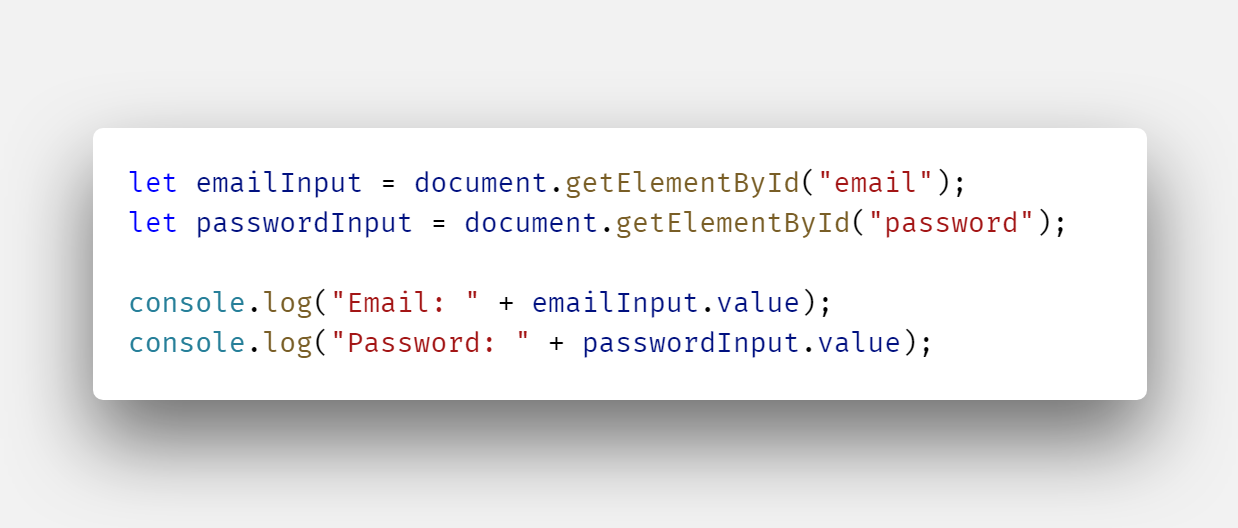
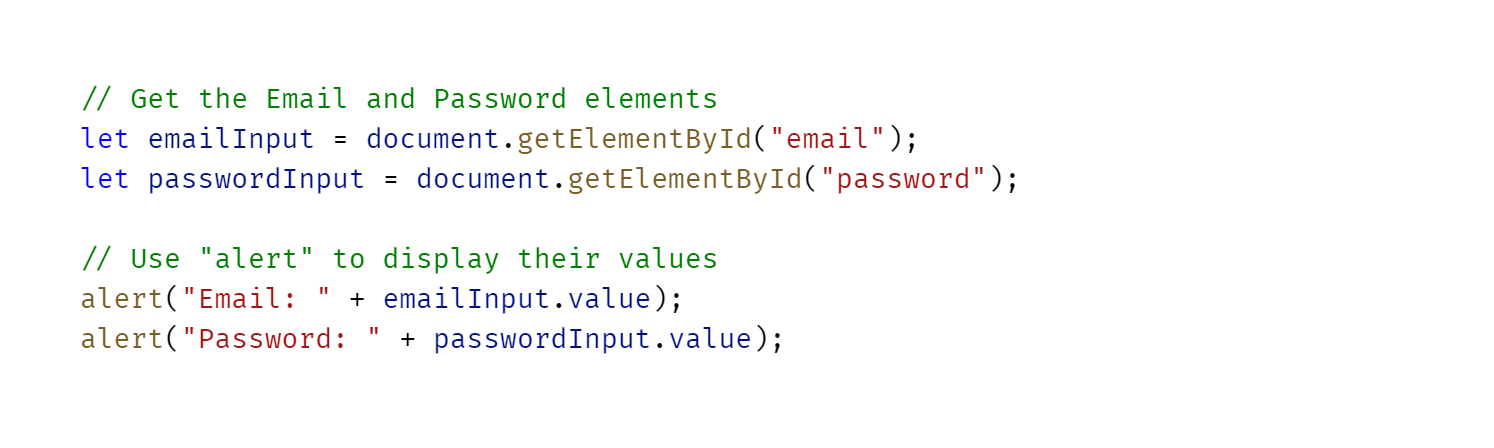
add exercise files for inputs and selectors

Changed region(s): [[0.0307, 0.1875, 0.9822, 0.9375]]

diff --git a/Solutions/3. Inputs/login.js b/Solutions/3. Inputs/login.js
@@ -1,8 +1,19 @@
 function handleClick(){
-    // Code your things in here
+    // Get the Email and Password elements
     let emailInput = document.getElementById("email");
     let passwordInput = document.getElementById("password");
 
+    // Use "alert" to display their values
     alert("Email: " + emailInput.value);
     alert("Password: " + passwordInput.value);
+
+    /* 
+    When you are done, 
+    click the "login" button on the HTML page to run this code
+    */
+   
+    // Validate if the password given is longer than 3 characters
+    if (passwordInput.value.length < 3) {
+        alert("Sorry! That password is too short!")
+    }
 }

diff --git a/Exercises/3. Inputs/login.js b/Exercises/3. Inputs/login.js
@@ -6,7 +6,7 @@ function handleClick(){
 
 
     /* 
-    When you think you are done, 
+    When you are done, 
     click the "login" button on the HTML page to run this code
     */
 }
